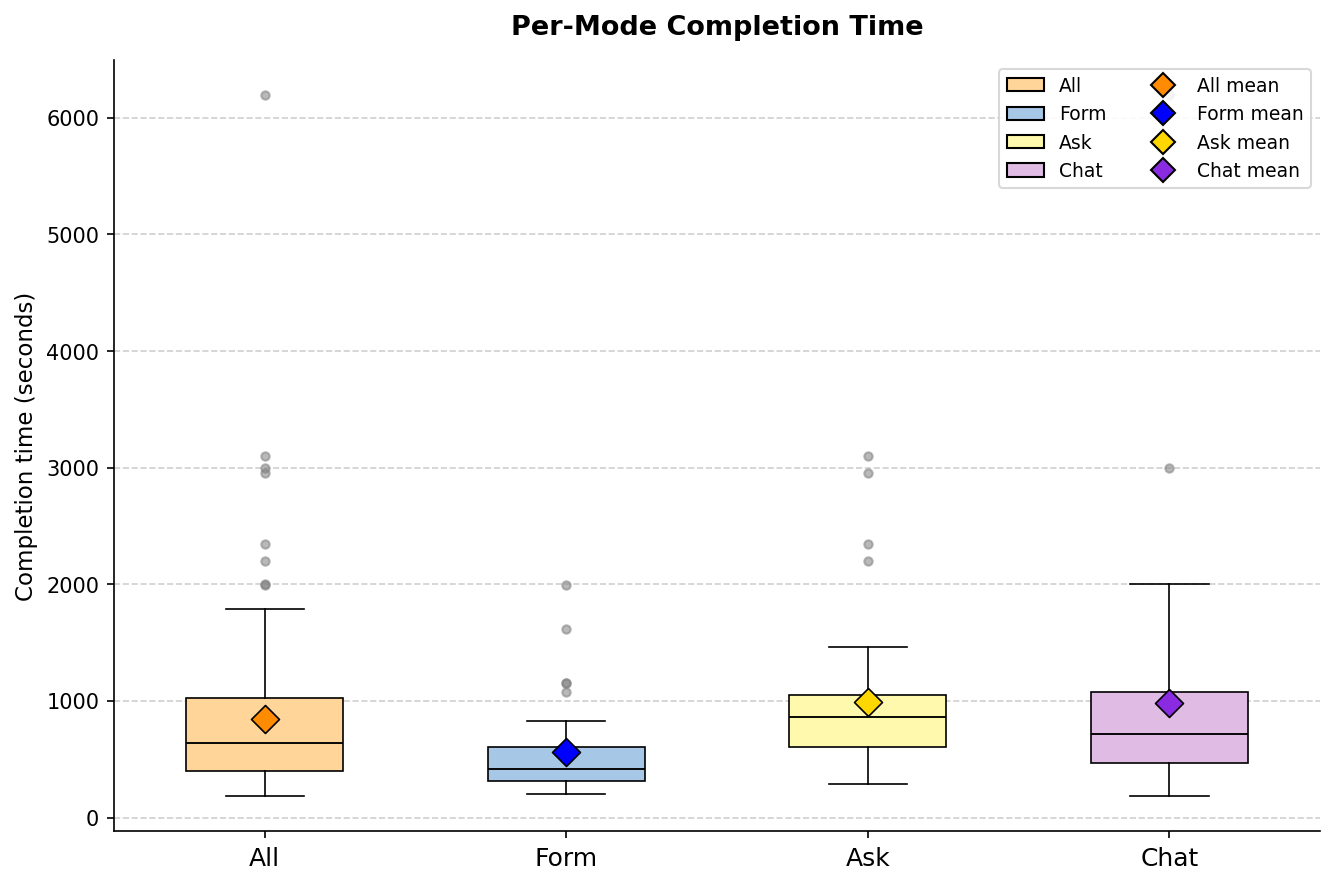
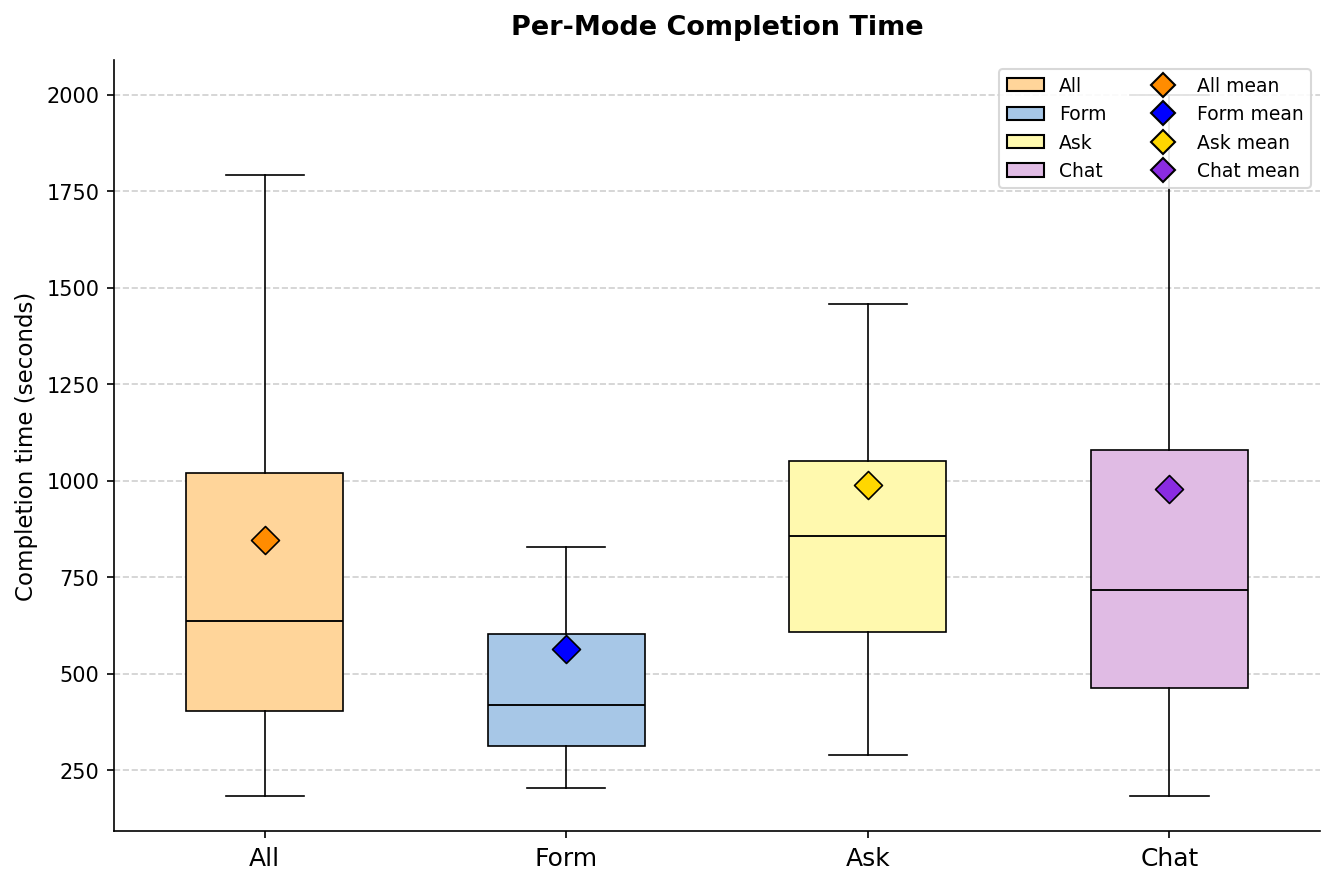
python: hide flier markers on per-mode timing boxplot for readability

diff --git a/python/metrics/scripts/per_mode_timing.py b/python/metrics/scripts/per_mode_timing.py
@@ -343,18 +343,21 @@ def step_figure(df: pd.DataFrame) -> Path:
     group_data = [data[g] for g in GROUPS]
 
     fig, ax = plt.subplots(figsize=(9, 6))
+    # showfliers=False hides individual outlier markers (in particular the
+    # single ~6199 s chat session by UOR0445, which otherwise stretches the
+    # y-axis and renders the IQRs visually unreadable). Whiskers, medians and
+    # all reported statistics are still computed from the full data — only
+    # the flier dots are suppressed.
     bp = ax.boxplot(
         group_data,
         positions=range(len(GROUPS)),
         widths=0.52,
         patch_artist=True,
-        showfliers=True,
+        showfliers=False,
         medianprops=dict(color="black", linewidth=0.9),
         whiskerprops=dict(color="black", linewidth=0.8),
         capprops=dict(color="black", linewidth=0.8),
         boxprops=dict(linewidth=0.8),
-        flierprops=dict(marker="o", markerfacecolor="grey",
-                        markeredgecolor="grey", markersize=4, alpha=0.55),
     )
     for patch, col in zip(bp["boxes"], BOX_COLORS):
         patch.set_facecolor(col)

diff --git a/python/metrics/output/statistical_tests.md b/python/metrics/output/statistical_tests.md
@@ -808,9 +808,11 @@ Family-wise correction across the 60 (metric × chapter) cells yields α = 0.05/
 | Friedman omnibus (exploratory, Bonferroni-60) | 19 / 60   | α ≈ 0.000833 |
 | Wilcoxon pairwise (exploratory)         | 68 / 180  | α = 0.0167 (per-cell Bonferroni-3) |
 
+---
+
 ## Per-Mode Completion Time
 
-Source: timing line `Time elapsed: NNN seconds` emitted by ROPAgen at the end of every generated document (one value per participant × mode). Extracted via `metrics/scripts/per_mode_timing.py`. Sample sizes match the NLP doc-level analysis: full n = 113 (Form 37, Ask 37, Chat 39, **primary**); matched-triple within-subjects subset n = 26 (**exploratory, not used in the thesis**).
+Source: timing line `Time elapsed: NNN seconds` emitted by ROPAgen at the end of every generated document (one value per participant × mode). Extracted via `metrics/scripts/per_mode_timing.py`. Sample sizes match the NLP doc-level analysis: full n = 113 (Form 37, Ask 37, Chat 39); matched-triple within-subjects subset n = 26.
 
 ### Descriptives (full dataset, n = 113)
 
@@ -830,41 +832,37 @@ Source: timing line `Time elapsed: NNN seconds` emitted by ROPAgen at the end of
 
 Distributions deviate from normality on at least one mode; non-parametric tests used throughout (consistent with the NLP and survey pipelines).
 
-### Primary: Kruskal–Wallis (full n = 113, unbalanced)
-
-**Primary** between-groups omnibus for per-mode timing.
-
-| H | p | ε² | Significant (α=0.05) |
-|---|---|---|---|
-| 16.455 | <0.001 | 0.147 | Yes |
-
-### Primary: Pairwise Mann–Whitney U (full n = 113, Bonferroni α = 0.0167)
-
-**Primary** post-hoc family for per-mode timing.
-
-| Pair | U | p | r | Median A (s) | Median B (s) | Sig (Bonf α=0.0167) |
-|---|---|---|---|---|---|---|
-| form vs ask | 334.0 | <0.001 | +0.512 | 420.0 | 858.0 | **Yes** |
-| form vs chat | 420.0 | 0.002 | +0.418 | 420.0 | 717.0 | **Yes** |
-| ask vs chat | 793.5 | 0.457 | -0.100 | 858.0 | 717.0 | No |
-
-### Exploratory: Friedman test (matched within-subjects, n = 26)
-
-Retained for archival reference; not used in the thesis.
+### Friedman test (within-subjects, n = 26)
 
 | χ² | df | p | Kendall's W | Significant (α=0.05) |
 |---|---|---|---|---|
 | 18.692 | 2 | <0.001 | 0.359 | Yes |
 
-### Exploratory: Pairwise Wilcoxon signed-rank (matched n = 26)
+Friedman is significant → pairwise Wilcoxon signed-rank post-hoc with Bonferroni-corrected α = 0.0167 (3 comparisons). Effect size: matched-pairs rank-biserial r (positive when the first-named mode in the pair is *higher*, i.e. *slower*).
 
-Retained for archival reference; not used in the thesis. Effect size: matched-pairs rank-biserial r (positive when the first-named mode in the pair is *higher*, i.e. *slower*).
+### Pairwise Wilcoxon signed-rank (matched n = 26)
 
 | Pair | W | p | r | Median diff (s) | Sig (Bonf) |
 |---|---|---|---|---|---|
 | form vs ask | 19.0 | <0.001 | -0.892 | -400.0 | **Yes** |
 | form vs chat | 34.0 | <0.001 | -0.806 | -274.0 | **Yes** |
 | ask vs chat | 162.0 | 0.745 | -0.077 | +68.5 | No |
+
+### Kruskal-Wallis sensitivity (full n = 113, unbalanced)
+
+| H | p | ε² | Significant (α=0.05) |
+|---|---|---|---|
+| 16.455 | <0.001 | 0.147 | Yes |
+
+Reported as a between-groups sensitivity check on the unbalanced full sample; the matched-triple Wilcoxon family above is the primary inferential result.
+
+### Pairwise Mann-Whitney U (full n = 113)
+
+| Pair | U | p | r | Median A (s) | Median B (s) | Sig (Bonf α=0.0167) |
+|---|---|---|---|---|---|---|
+| form vs ask | 334.0 | <0.001 | +0.512 | 420.0 | 858.0 | **Yes** |
+| form vs chat | 420.0 | 0.002 | +0.418 | 420.0 | 717.0 | **Yes** |
+| ask vs chat | 793.5 | 0.457 | -0.100 | 858.0 | 717.0 | No |
 
 ### Data-quality notes
 
@@ -877,3 +875,4 @@ Cross-check vs. total survey duration:
 -   - AMR2620: Σmodes=3245s > duration=2870s
 - 3 participants in docs but not in survey (no duration available): EII0925, IHB1316, LOT2142
 - 8 participants with survey duration < 0 (encoded missing): EHN0215, IIV2704, IOL1223, Jer1205, RIT1851, UAB0821, UOR0445, thg1620
+
